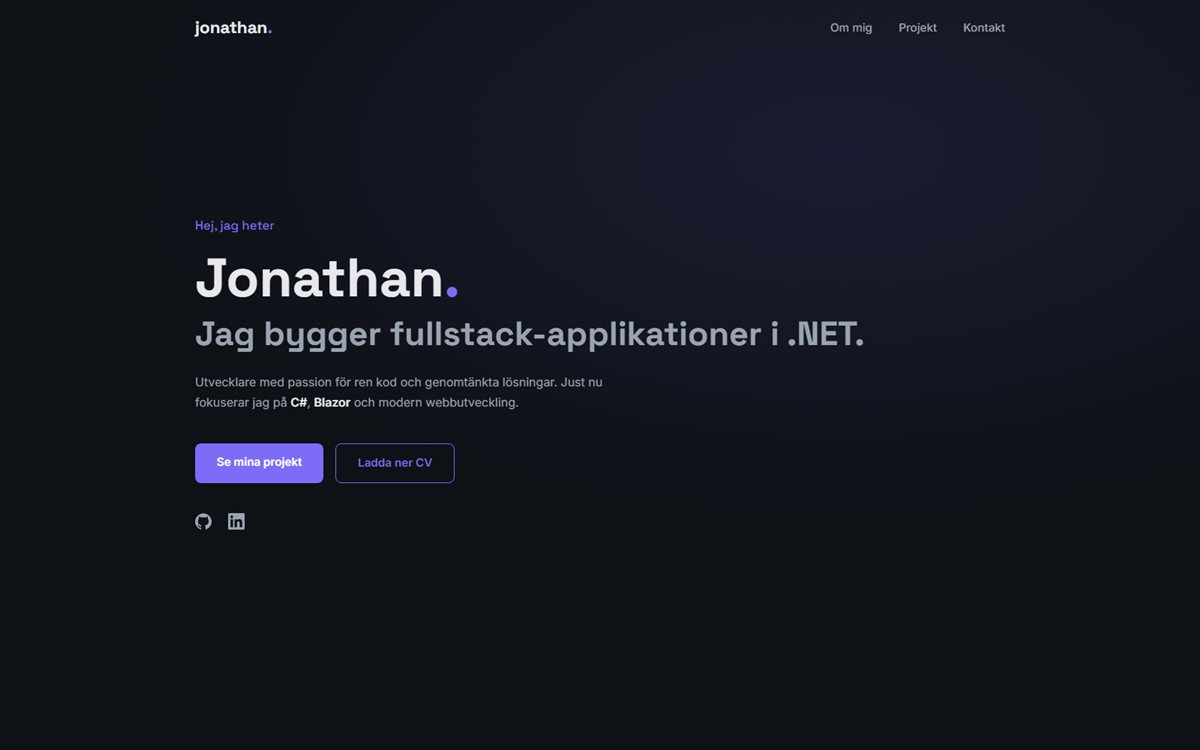
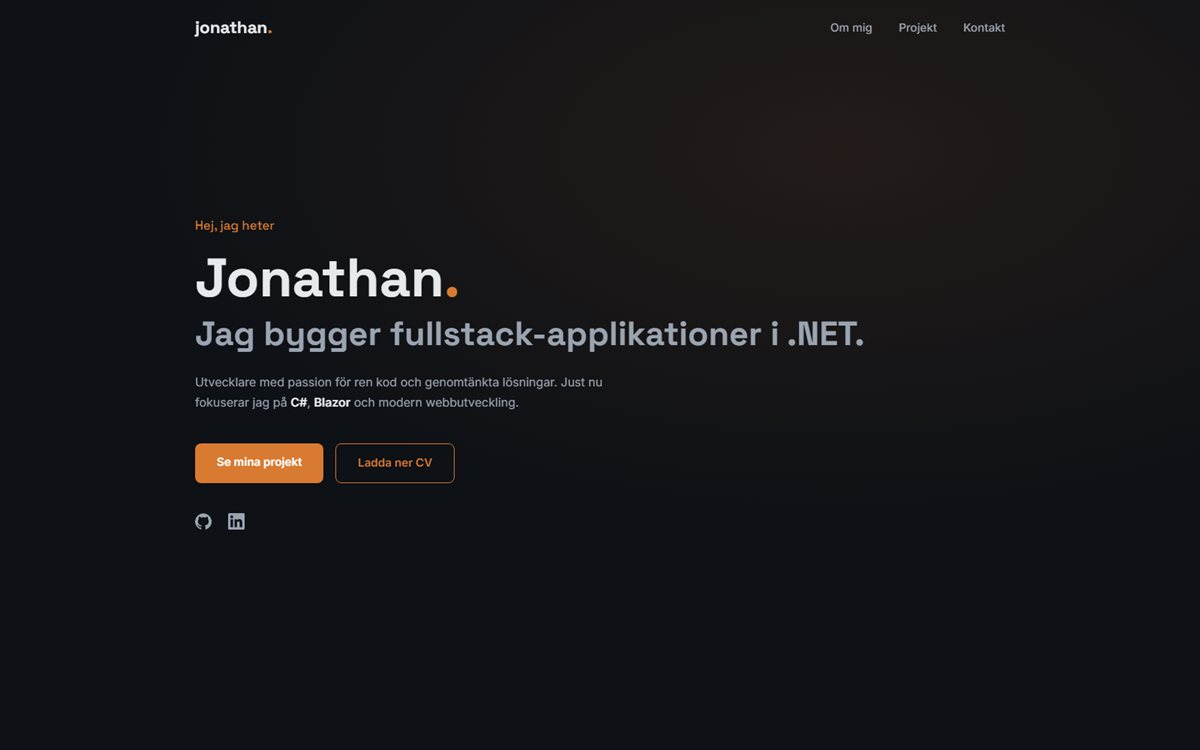
Byt accentfärg till bränd orange
Sajten och CV:t använder nu #d97a32 istället för lila.
Portfolio-kortets skärmdump uppdaterad med nya färgen.

diff --git a/css/style.css b/css/style.css
@@ -23,8 +23,8 @@
   --bg-elevated:  #161b22;  /* kort, header */
   --text:         #e6e8ec;  /* brödtext */
   --text-muted:   #9aa3b0;  /* nedtonad text */
-  --accent:       #7c6cf6;  /* accentfärg (indigo/violett) */
-  --accent-soft:  rgba(124, 108, 246, 0.12); /* genomskinlig accent för taggar m.m. */
+  --accent:       #d97a32;  /* accentfärg (bränd orange) */
+  --accent-soft:  rgba(217, 122, 50, 0.12); /* genomskinlig accent för taggar m.m. */
   --border:       #262c36;  /* tunna linjer/kanter */
   --shadow:       0 12px 32px rgba(0, 0, 0, 0.4); /* kortskugga vid hover */
 
@@ -134,7 +134,7 @@ ul {
 
 .btn--primary:hover {
   transform: translateY(-3px);                 /* lyfts lite vid hover */
-  box-shadow: 0 8px 24px rgba(124, 108, 246, 0.35);
+  box-shadow: 0 8px 24px rgba(217, 122, 50, 0.35);
   color: #fff;
 }
 
@@ -250,7 +250,7 @@ ul {
   align-items: center;
   /* Subtil radiell "glow" i accentfärg bakom innehållet */
   background:
-    radial-gradient(ellipse 60% 50% at 70% 20%, rgba(124, 108, 246, 0.12), transparent),
+    radial-gradient(ellipse 60% 50% at 70% 20%, rgba(217, 122, 50, 0.1), transparent),
     var(--bg);
 }
 
@@ -395,7 +395,7 @@ ul {
 .card:hover {
   transform: translateY(-6px);
   box-shadow: var(--shadow);
-  border-color: rgba(124, 108, 246, 0.4);
+  border-color: rgba(217, 122, 50, 0.4);
 }
 
 /* Skärmdump överst i kortet. Negativa marginaler låter bilden gå